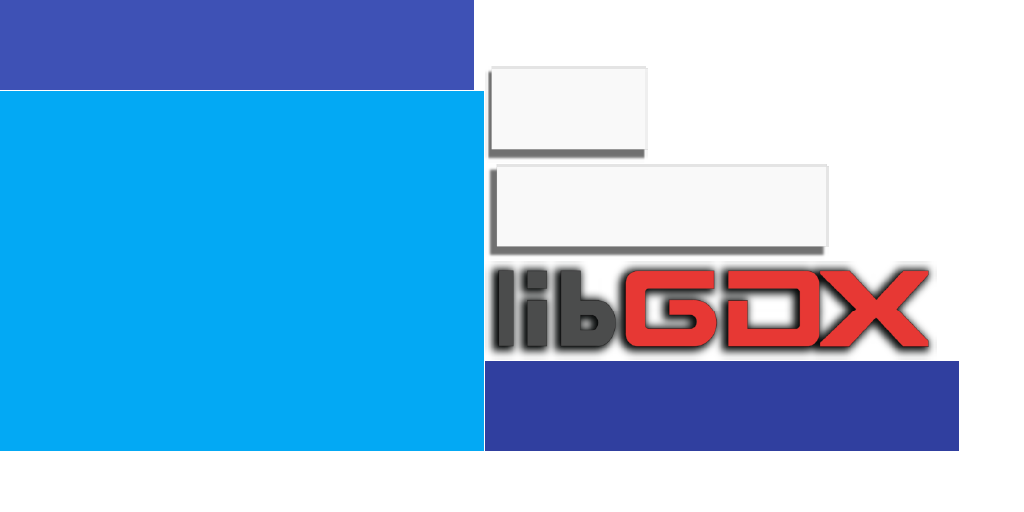
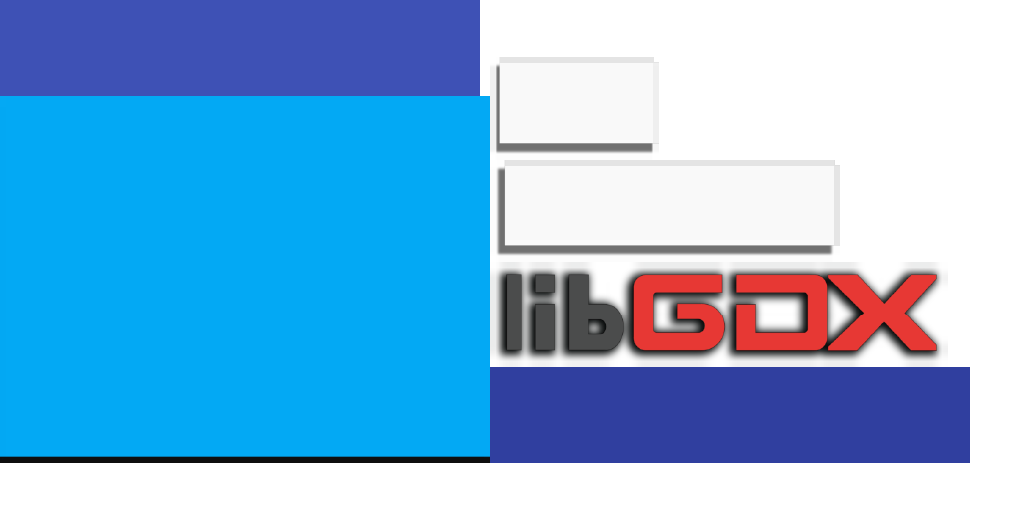
Header Image is a go

Changed region(s): [[0.0, 0.0, 0.9688, 0.9062]]

diff --git a/core/src/com/fancylancy/flyergame/items/BaseImageItem.java b/core/src/com/fancylancy/flyergame/items/BaseImageItem.java
@@ -3,6 +3,7 @@ package com.fancylancy.flyergame.items;
 import com.badlogic.gdx.Gdx;
 import com.badlogic.gdx.graphics.Texture;
 import com.badlogic.gdx.graphics.g2d.SpriteBatch;
+import com.badlogic.gdx.graphics.g2d.TextureAtlas;
 import com.badlogic.gdx.graphics.g2d.TextureRegion;
 import com.badlogic.gdx.graphics.glutils.ShapeRenderer;
 import com.badlogic.gdx.math.Rectangle;
@@ -15,16 +16,22 @@ import com.fancylancy.flyergame.utils.Assets;
  */
 public class BaseImageItem implements Disposable {
     protected static String TAG;
+    protected TextureAtlas atlas;
     protected TextureRegion textureRegion;
     protected Texture texture;
     protected SpriteBatch batch;
     protected Rectangle bounds;
     protected ShapeRenderer shapeRenderer;
+    protected float x;
+    protected float y;
 
     public BaseImageItem() {
 
     }
 
+    public BaseImageItem(float x, float y) {
+
+    }
     protected void clickHandler() {
         if (Gdx.input.justTouched()) {
             Vector3 touch = new Vector3();

diff --git a/core/src/com/fancylancy/flyergame/items/HeaderImage.java b/core/src/com/fancylancy/flyergame/items/HeaderImage.java
@@ -1,15 +1,30 @@
 package com.fancylancy.flyergame.items;
 
+import com.badlogic.gdx.graphics.glutils.ShapeRenderer;
+import com.badlogic.gdx.math.Rectangle;
+import com.fancylancy.flyergame.utils.Assets;
+
 /**
  * Created by SuckIt on 6/21/15.
  */
 public class HeaderImage extends BaseImageItem {
-    public HeaderImage() {
+    public HeaderImage(float x, float y) {
+        TAG = HeaderImage.class.getName();
+        batch = Assets.getInstance().getBatch();
+        shapeRenderer = new ShapeRenderer();
+        this.x = x;
+        this.y = y;
+        atlas = Assets.getInstance().getAtlas();
+        textureRegion = atlas.findRegion("Header");
+        bounds = new Rectangle(x, y, textureRegion.getRegionWidth(), textureRegion.getRegionHeight());
     }
 
     @Override
     public void render(float delta) {
         super.render(delta);
+        batch.begin();
+        batch.draw(textureRegion, x, y);
+        batch.end();
     }
 
     @Override

diff --git a/core/src/com/fancylancy/flyergame/screens/IATAScreen.java b/core/src/com/fancylancy/flyergame/screens/IATAScreen.java
@@ -1,6 +1,8 @@
 package com.fancylancy.flyergame.screens;
 
 import com.badlogic.gdx.Game;
+import com.badlogic.gdx.Gdx;
+import com.badlogic.gdx.graphics.GL20;
 import com.fancylancy.flyergame.items.Button;
 import com.fancylancy.flyergame.items.HeaderImage;
 import com.fancylancy.flyergame.items.LargeTextImage;
@@ -22,11 +24,17 @@ public class IATAScreen extends BaseScreen {
     public IATAScreen(Game game) {
         super(game);
         TAG = IATAScreen.class.getName();
+        headerImage = new HeaderImage(0f, 480f);
     }
 
     @Override
     public void render(float delta) {
         super.render(delta);
+        camera.update();
+        Gdx.gl.glClearColor(182 / 255f, 182 / 255f, 182 / 255f, 1);
+        Gdx.gl.glClear(GL20.GL_COLOR_BUFFER_BIT);
+        batch.setProjectionMatrix(camera.combined);
+        headerImage.render(delta);
     }
 
     @Override

diff --git a/core/src/com/fancylancy/flyergame/utils/Assets.java b/core/src/com/fancylancy/flyergame/utils/Assets.java
@@ -14,6 +14,7 @@ import com.badlogic.gdx.utils.viewport.Viewport;
 /**
  * Created by SuckIt on 6/16/15.
  * Assets manager
+
  */
 public class Assets extends AssetManager implements Disposable {
     private static final String TAG = AssetManager.class.getName();
@@ -70,6 +71,13 @@ public class Assets extends AssetManager implements Disposable {
         return batch;
     }
 
+    public TextureAtlas getAtlas() {
+        return atlas;
+    }
+
+    public void setAtlas(TextureAtlas atlas) {
+        this.atlas = atlas;
+    }
     @Override
     public synchronized void dispose() {
         super.dispose();

diff --git a/core/src/com/fancylancy/flyergame/screens/LogoScreen.java b/core/src/com/fancylancy/flyergame/screens/LogoScreen.java
@@ -40,7 +40,7 @@ public class LogoScreen extends BaseScreen {
 
     @Override
     protected void clicked() {
-        game.setScreen(new LayoutScreen(game));
+        game.setScreen(new IATAScreen(game));
     }
 
     @Override
